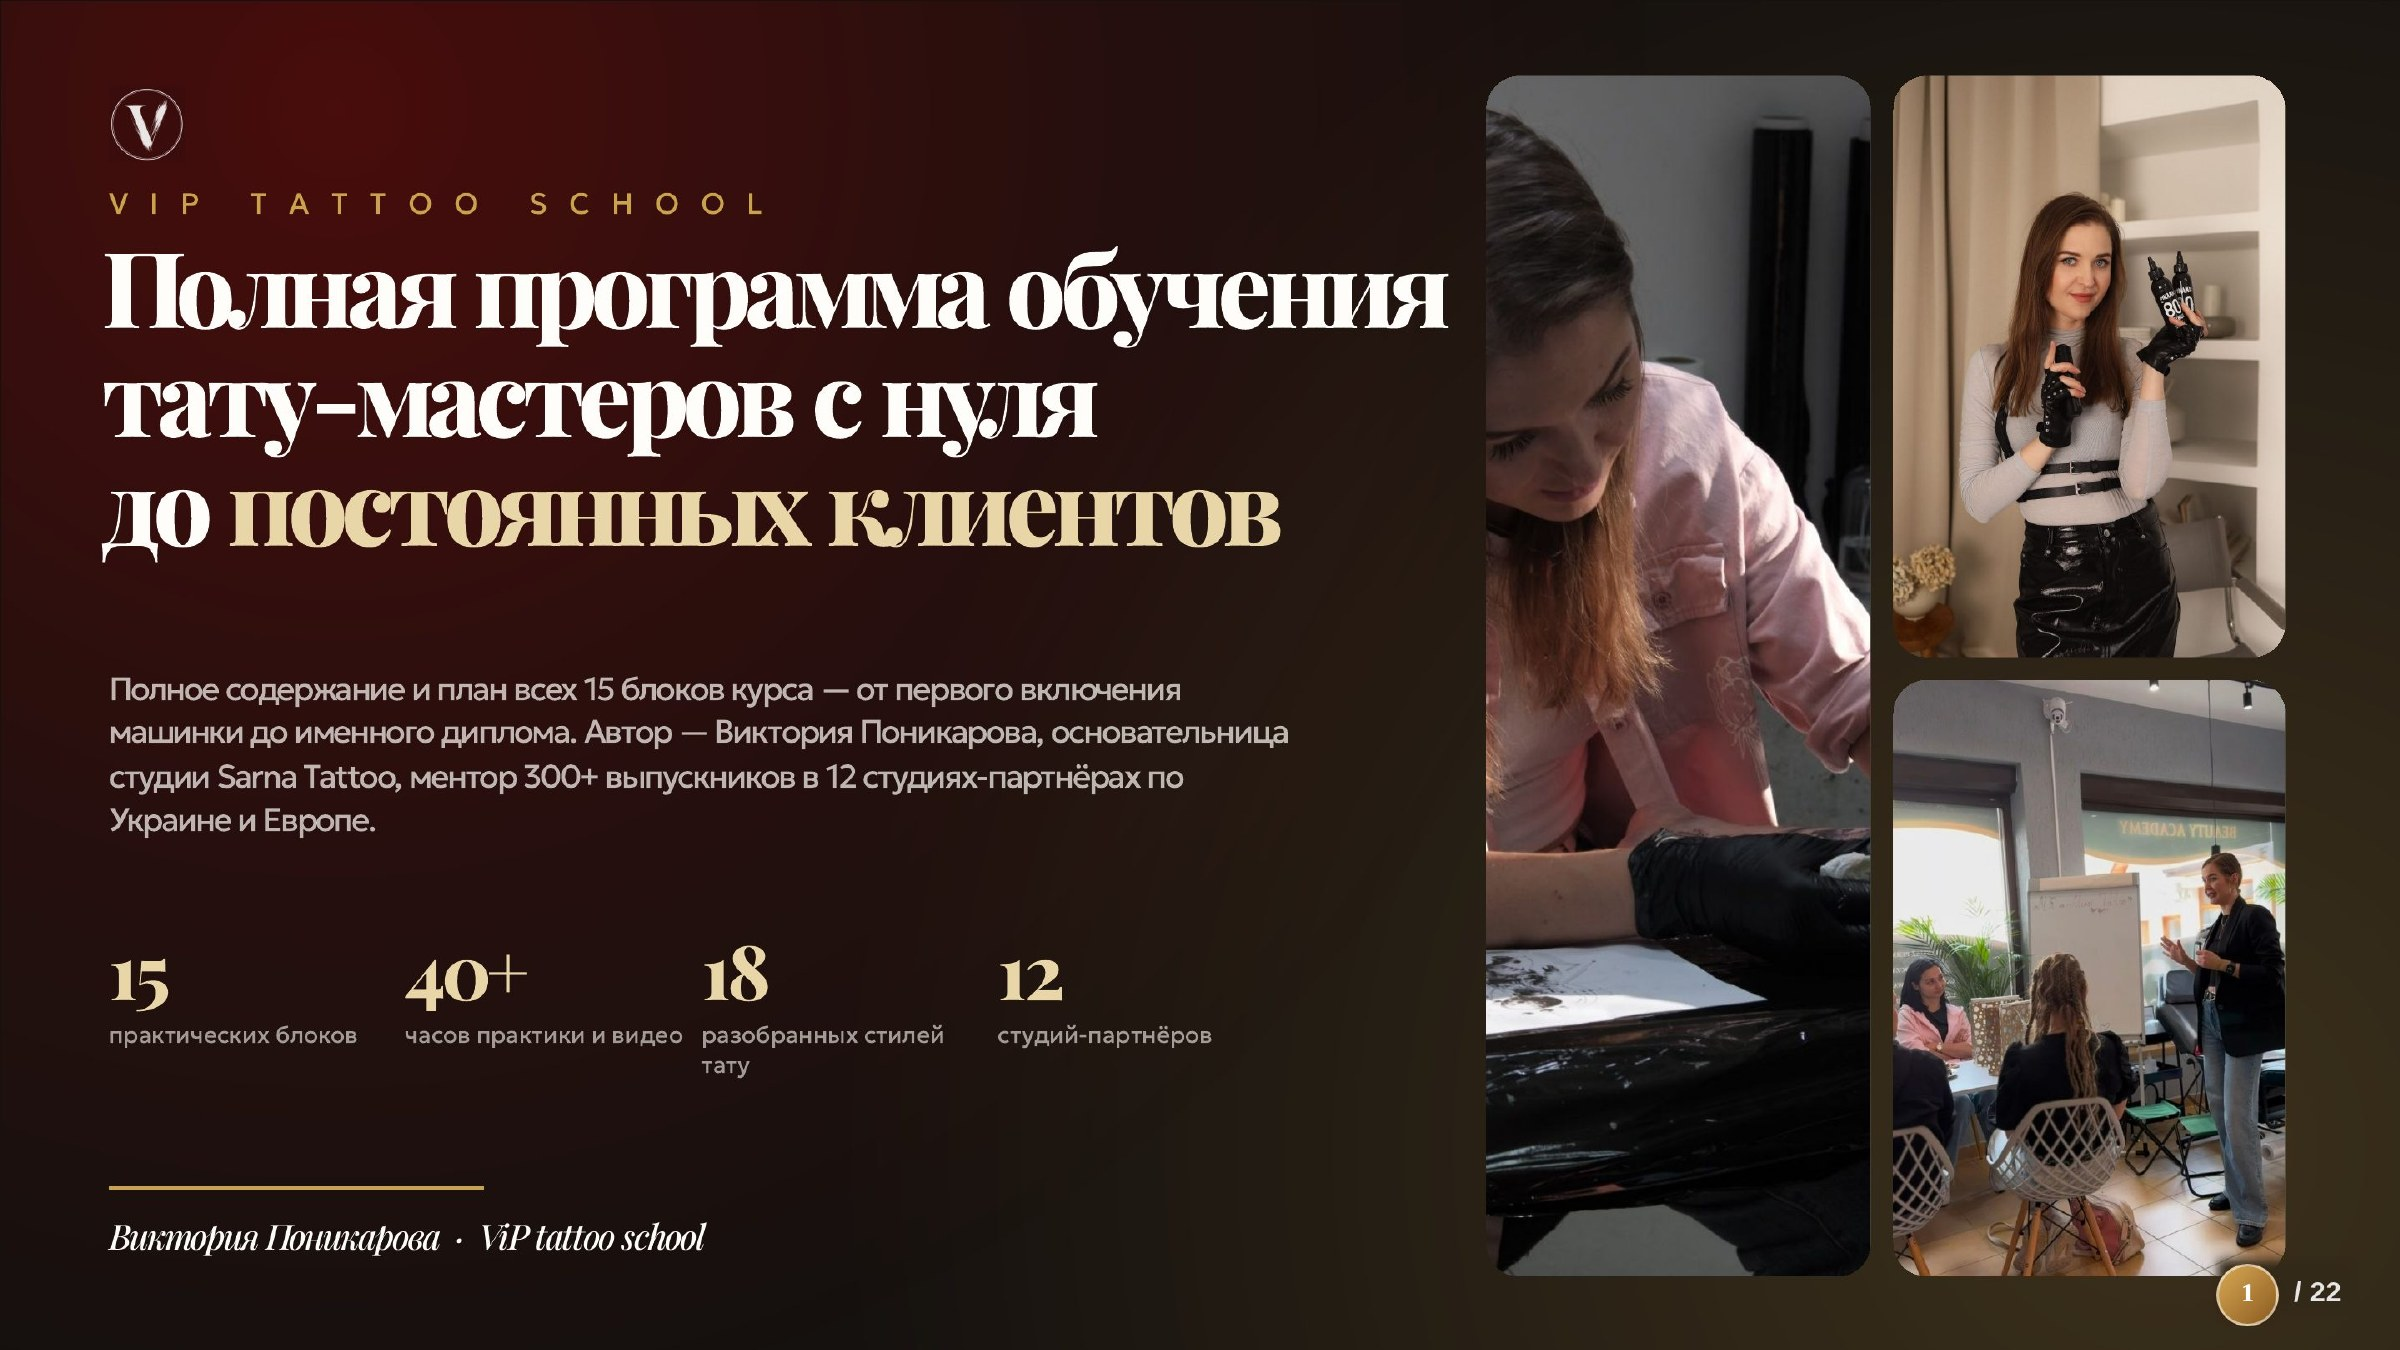
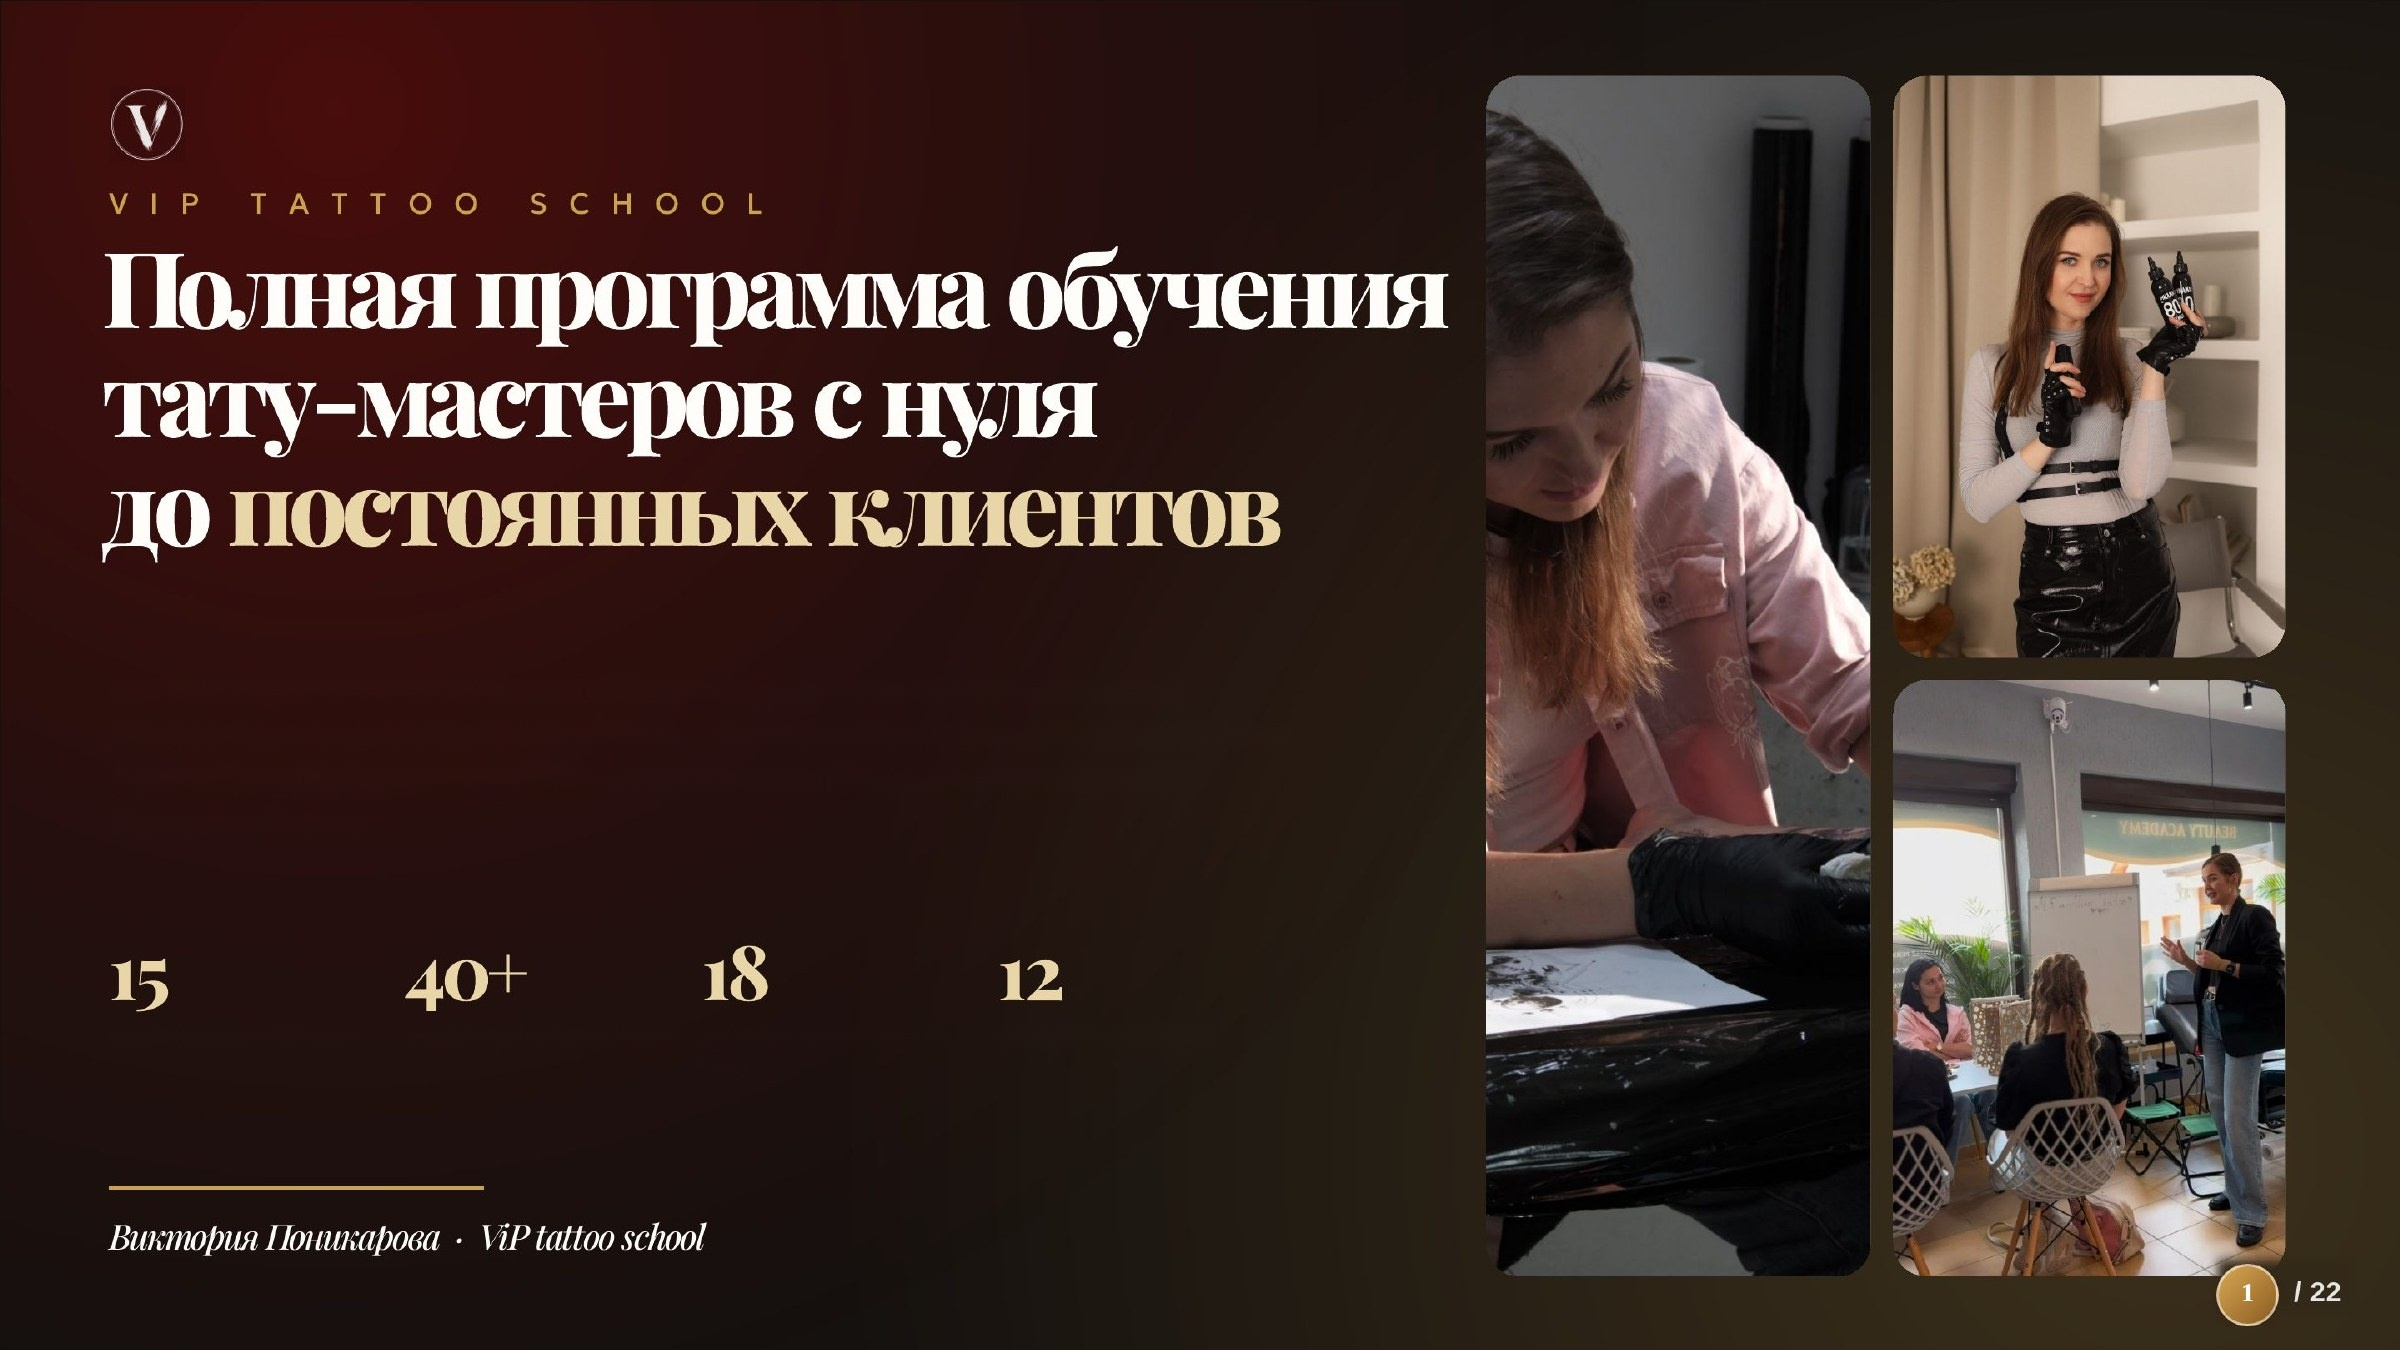
Make slide-1 and slide-2 descriptions bold white like the key-benefits list
Erase the grey paragraph and stat labels on slide 1, and the grey
support descriptions under "Формат поддержки" on slide 2, then
overlay real bold-white HTML text at the same spot -- matching the
"Ключевое преимущество" list's weight and color. Photos, numbers,
icons and titles are untouched original pixels.

Claude-Session: https://claude.ai/code/session_01CnfRud7UFKfhrBcKWTmy69

Changed region(s): [[0.0312, 0.4978, 0.5312, 0.6222], [0.1875, 0.7467, 0.5, 0.8089], [0.0625, 0.7467, 0.1562, 0.7778]]

diff --git a/docs/index.html b/docs/index.html
@@ -107,13 +107,31 @@
     font-family:'Nunito',sans-serif; font-weight:800;
     font-size:1.3vw; line-height:1.25; color:#fff; text-shadow:none; filter:none;
   }
+
+  /* ---- Bold white text on slide 1 (hero) and slide 2 (support row) -
+     The grey description paragraph + stat labels on slide 1, and the
+     grey descriptions in "Формат поддержки" on slide 2, were erased
+     from their images (backgrounds reconstructed locally) and are
+     replaced here with real, larger bold-white HTML text matching the
+     "Ключевое преимущество" list's style -- everything else (photos,
+     numbers, icons, titles) stays original pixels. */
+  .ov-s1-desc{ position:absolute; left:4.17%; top:49.6%; width:50%; font-family:'Nunito',sans-serif; font-weight:800; font-size:1.05vw; line-height:1.55; color:#fff; }
+  .ov-s1-stat{ position:absolute; top:75.9%; font-family:'Nunito',sans-serif; font-weight:800; font-size:0.92vw; line-height:1.3; color:#fff; }
+  .ov-s2-support{ position:absolute; top:75.9%; font-family:'Nunito',sans-serif; font-weight:800; font-size:0.95vw; line-height:1.35; color:#fff; }
 </style>
 </head>
 <body>
 <div class="slides">
-  <img class="slide-img" src="assets/slides/slide-01.jpg" alt="Слайд 1 — VIP Tattoo School">
   <div class="slide-wrap">
-    <img class="slide-img" src="assets/slides/slide-02.jpg?v=5" alt="Слайд 2 — структура курса">
+    <img class="slide-img" src="assets/slides/slide-01.jpg?v=2" alt="Слайд 1 — VIP Tattoo School">
+    <div class="ov ov-s1-desc">Полное содержание и план всех 15 блоков курса — от первого включения машинки до именного диплома. Автор — Виктория Поникарова, основательница студии Sarna Tattoo, ментор 300+ выпускников в 12 студиях-партнёрах по Украине и Европе.</div>
+    <div class="ov ov-s1-stat" style="left:4.375%;width:10.625%;">практических блоков</div>
+    <div class="ov ov-s1-stat" style="left:16.67%;width:11.875%;">часов практики и видео</div>
+    <div class="ov ov-s1-stat" style="left:29.04%;width:10.42%;">разобранных стилей тату</div>
+    <div class="ov ov-s1-stat" style="left:41.375%;width:9.25%;">студий-партнёров</div>
+  </div>
+  <div class="slide-wrap">
+    <img class="slide-img" src="assets/slides/slide-02.jpg?v=6" alt="Слайд 2 — структура курса">
     <div class="ov ov-card-num" style="left:4.958%;top:16.667%;">01</div>
     <div class="ov ov-card-label" style="left:4.958%;top:23.926%;width:15.875%;">VIP tattoo school</div>
     <div class="ov ov-card-num" style="left:22.625%;top:16.667%;">02</div>
@@ -144,6 +162,10 @@
     <div class="ov ov-card-label" style="left:58.000%;top:56.815%;width:15.875%;">Zoom — Tattoo</div>
     <div class="ov ov-card-num" style="left:75.667%;top:49.556%;">15</div>
     <div class="ov ov-card-label" style="left:75.667%;top:56.815%;width:15.875%;">Именной диплом</div>
+    <div class="ov ov-s2-support" style="left:9.17%;width:15.75%;">Виктория лично отвечает и разбирает домашние задания</div>
+    <div class="ov ov-s2-support" style="left:31.79%;width:17.71%;">Общение и поддержка с другими тату-мастерами</div>
+    <div class="ov ov-s2-support" style="left:54.46%;width:15.125%;">Персональный помощник на данных курса и студии Sarna</div>
+    <div class="ov ov-s2-support" style="left:77.21%;width:16.17%;">Разбор твоего кабинета, цен и клиентов вживую (блоки 13–14)</div>
   </div>
   <img class="slide-img" src="assets/slides/slide-03.jpg" alt="Слайд 3 — блок 1: вступление">
   <img class="slide-img" src="assets/slides/slide-04.jpg" alt="Слайд 4 — блок 2: AI-assistant">
